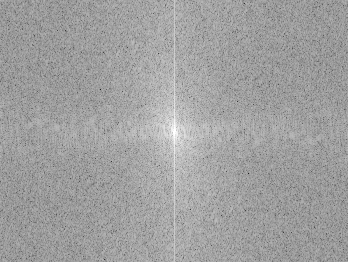
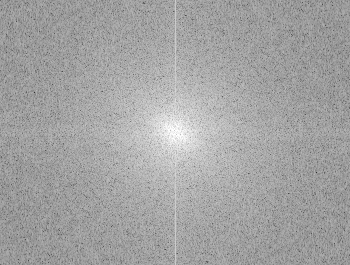
final changes

diff --git a/Image.py b/Image.py
@@ -35,7 +35,7 @@ class Image:
     def crop(self, array, flag):
         arrayShape = np.shape(array)
         values = np.zeros(arrayShape, dtype = 'uint8')
-        values = cv2.rectangle(values,(self.xStart, self.yStart), (self.xEnd, self.yEnd), (1,1,1), -1)
+        values = cv2.rectangle(values,(self.xStart, self.yStart), (self.yEnd, self.xEnd), (1,1,1), -1)
         returned_array = np.multiply(array, values)
         if flag == True:
             returned_array = array - returned_array

diff --git a/app.py b/app.py
@@ -85,8 +85,8 @@ def update():
         newImg1.mixImages()
         newImg2.mixImages()
 
-        newImg1.save(newImg1.imgCombined, 'static\imgs\imageOut1.png')
-        newImg2.save(newImg2.imgCombined, 'static\imgs\imageOut2.png')
+        newImg1.save(newImg1.imgCombined[:-100], 'static\imgs\imageOut1.png')
+        newImg2.save(newImg2.imgCombined[:-100], 'static\imgs\imageOut2.png')
         
         print('mag', img1.mag)
         print('phase', img1.phase)
